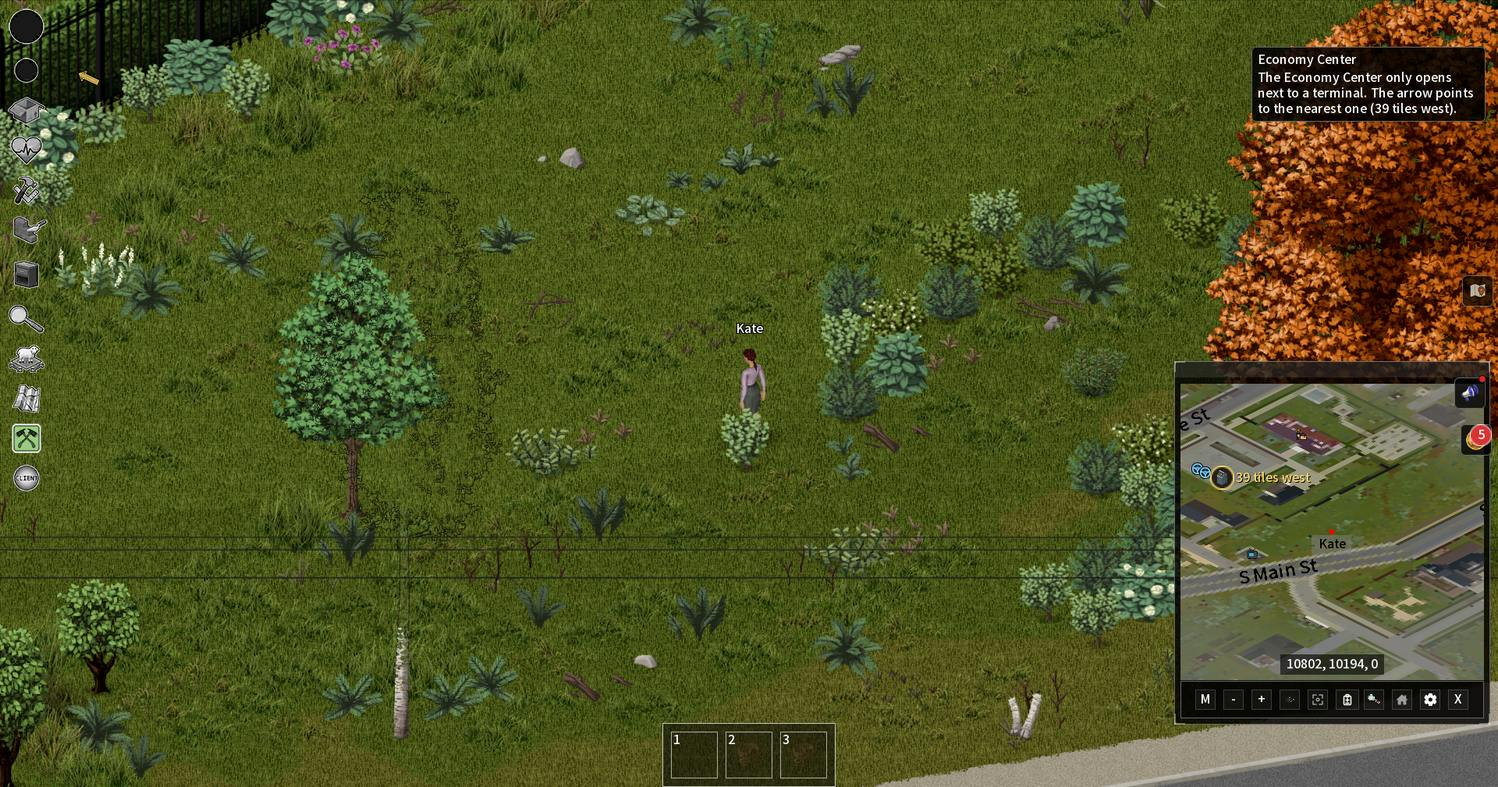
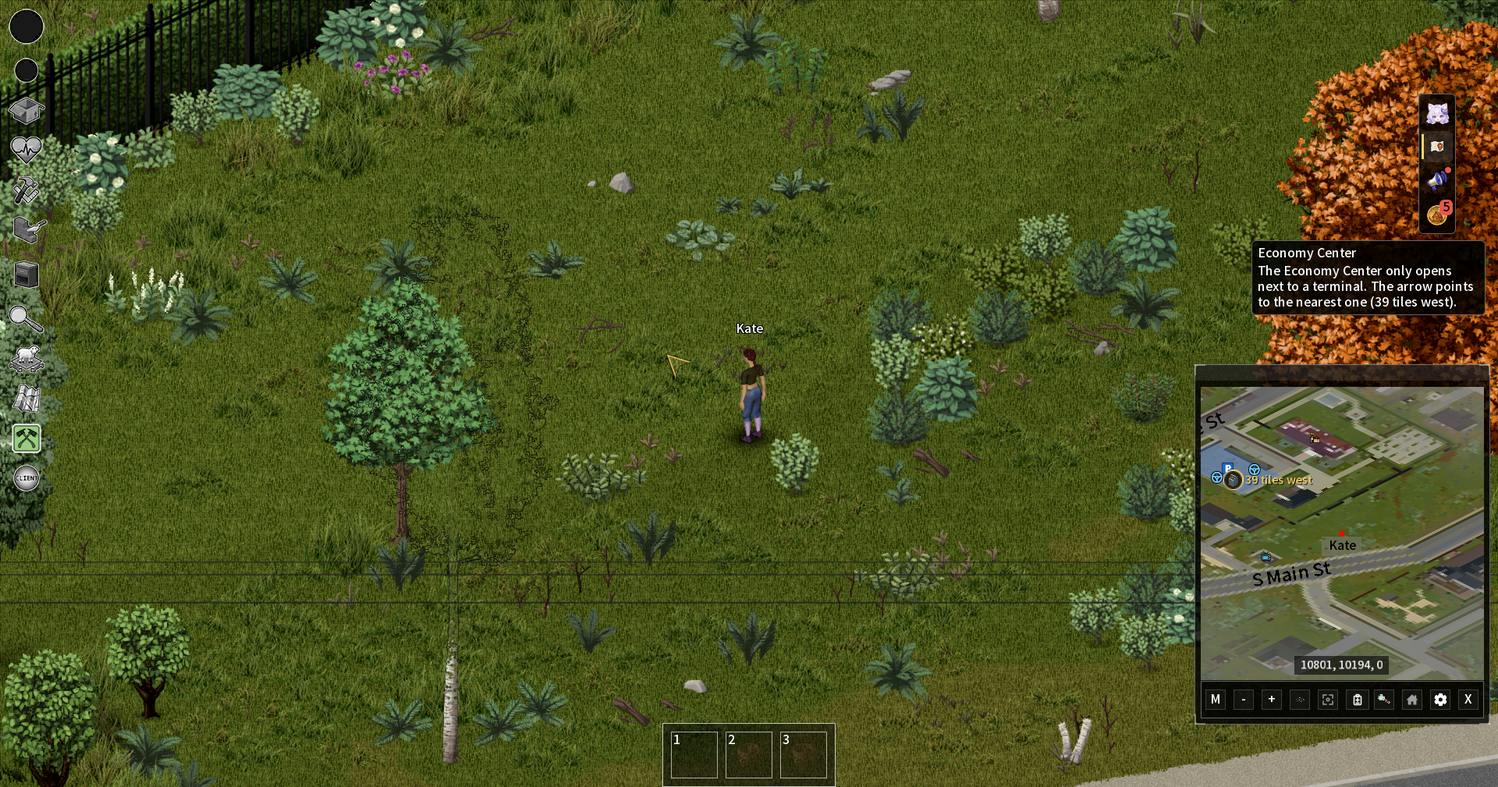
指南：「帶我去」的箭頭改在角色旁（說明改寫、07 截圖重拍）
guide-shots-mp econ-gshot-ch-1016a、econ-gshot-en-1016a（各 steps=41 checks=8），只換 07-nearest-terminal 兩張（267,455／268,943 bytes），其餘 12 張沿用。

diff --git a/STEAM_GUIDE.md b/STEAM_GUIDE.md
@@ -62,7 +62,7 @@ https://steamcommunity.com/sharedfiles/filedetails/?id=3801482125
 {{img:07-nearest-terminal-zh.jpg}}
 [list]
 [*] [b]方向與距離[/b]：不在終端旁時，經濟中心頂端會寫出最近的終端或 ATM 在哪個方向、還有幾格（不同樓層會註明在樓上或樓下）。
-[*] [b]帶我去[/b]：畫面上會出現金色的方向箭頭，走到旁邊就自動結束，也可以按「停止」。
+[*] [b]帶我去[/b]：角色旁會出現指向目標的金色箭頭；走近到看得見終端時，箭頭會移到終端那邊。走到旁邊就自動結束，也可以按「停止」。
 [*] [b]不允許遠端開啟時[/b]：在終端外按快捷鍵或工具列圖示，會直接指向最近的終端。
 [*] [b]交易被擋下時[/b]：「不在終端旁」的訊息也會附上最近終端的方位。
 [/list]

diff --git a/STEAM_GUIDE_EN.md b/STEAM_GUIDE_EN.md
@@ -62,7 +62,7 @@ A server option; it only appears once the server allows it.
 {{img:07-nearest-terminal-en.jpg}}
 [list]
 [*] [b]Direction and distance[/b]: away from terminals the top bar shows the nearest terminal or ATM's direction and distance (and whether it is upstairs or downstairs).
-[*] [b]Guide me[/b]: shows a golden arrow that stops on arrival (or press Stop).
+[*] [b]Guide me[/b]: a golden arrow beside your character points the way; once the terminal is on screen, the arrow moves over to it. It stops on arrival (or press Stop).
 [*] [b]Without remote opening[/b]: the hotkey or toolbar icon outside a terminal points the arrow at the nearest one instead.
 [*] [b]Trade blocked[/b]: a "not at a terminal" message also gives the nearest terminal's direction.
 [/list]
